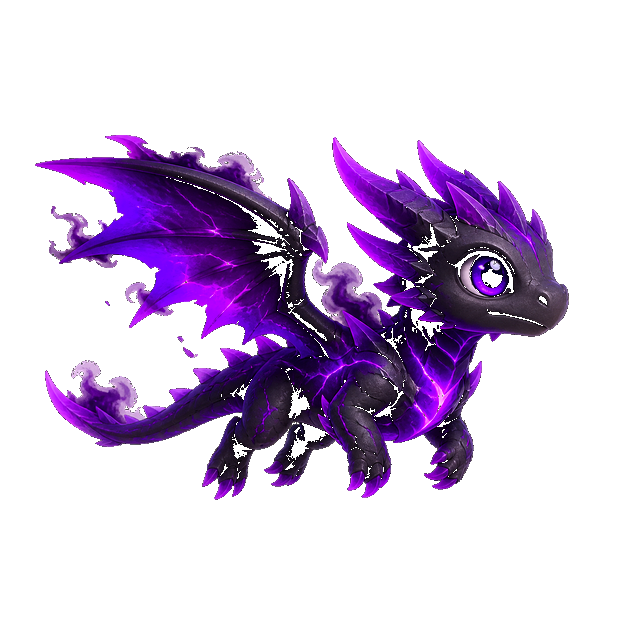
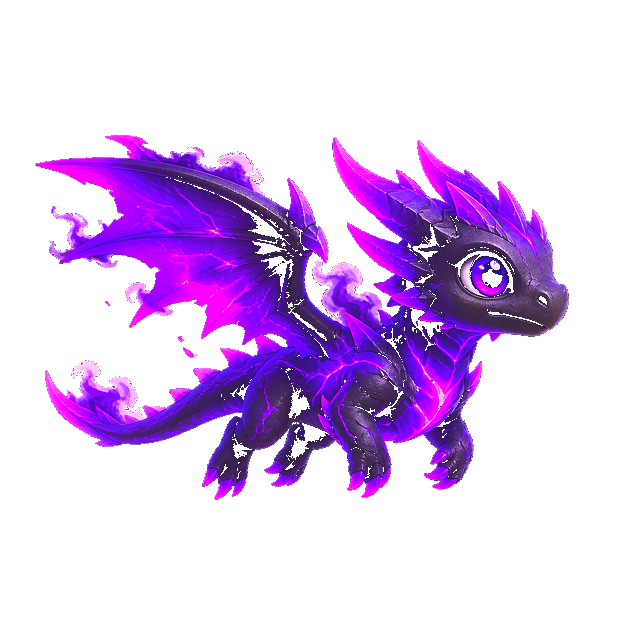
Lift Voidwatcher contrast so cracks, wings, and horns read clearly.

Changed region(s): [[0.0625, 0.1875, 0.9062, 0.7812]]

diff --git a/index.html b/index.html
@@ -148,7 +148,7 @@ var dragons=[
  {id:"forest",name:"Forest Dragon",price:1200,body:"#3f8f50",wing:"#7bc96f",eye:"#e8ffb0",accent:"#c4e89a",style:"forest",scale:.68},
  {id:"shadow",name:"Shadow Dragon",price:1500,body:"#40304f",wing:"#8c61b8",eye:"#f2b8ff",accent:"#c993e8",style:"shadow",scale:.68},
  {id:"gold",name:"Golden Dragon",price:2000,body:"#b87828",wing:"#ffd65a",eye:"#fff3a5",accent:"#fff0b8",style:"gold",scale:.68},
- {id:"voidwatcher",name:"Voidwatcher",price:50000,body:"#29223b",wing:"#7650c9",eye:"#e8b5ff",accent:"#d6a64a",style:"void",scale:.70,exclusive:true}
+ {id:"voidwatcher",name:"Voidwatcher",price:50000,body:"#29223b",wing:"#7650c9",eye:"#e8b5ff",accent:"#d6a64a",style:"void",scale:.76,exclusive:true}
 ,{id:"sirpuff",name:"Sir Puff",price:50000,body:"#e8b84a",wing:"#c9a038",eye:"#fff8d0",accent:"#c8d0dc",style:"knight",scale:.68,exclusive:true}
 ];
 var colors=[
